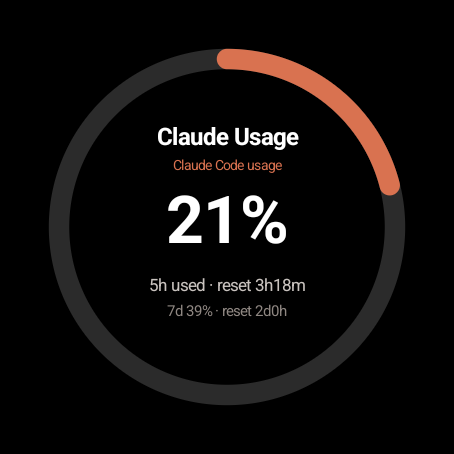
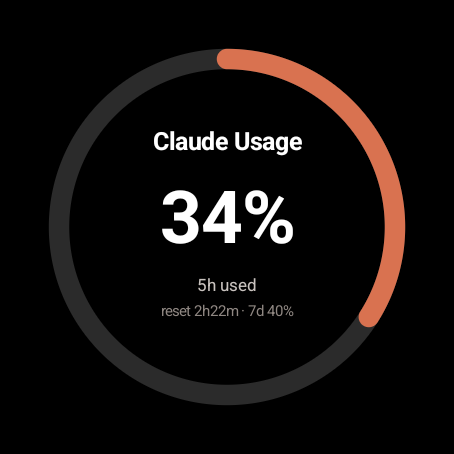
Polish usage widgets and Wear rings

Changed region(s): [[0.3392, 0.2775, 0.6784, 0.5551], [0.3084, 0.6167, 0.6784, 0.7093], [0.7709, 0.4009, 0.8943, 0.7401]]

diff --git a/wear/src/main/java/com/usagecompanion/claude/wear/UsageTileService.kt b/wear/src/main/java/com/usagecompanion/claude/wear/UsageTileService.kt
@@ -48,38 +48,67 @@ class UsageTileService : TileService() {
     }
 
     private fun tileContent(snapshot: WearSnapshot): LayoutElementBuilders.LayoutElement {
+        val accent = colorFor(snapshot)
+        val progress = if (snapshot.hasUsage) snapshot.fiveHourPercent else 0
         val title = if (snapshot.hasUsage) "Claude Usage" else "Set up"
-        val plan = if (snapshot.hasUsage) snapshot.planLabel else "Open phone app"
         val primary = if (snapshot.hasUsage) "${snapshot.fiveHourPercent}%" else "--"
-        val secondary = if (snapshot.hasUsage) {
-            "5h used · 7d ${snapshot.sevenDayPercent}%"
+        val label = if (snapshot.hasUsage) {
+            "5h used"
+        } else {
+            "Open phone app"
+        }
+        val reset = if (snapshot.hasUsage) {
+            "reset ${snapshot.fiveHourResetLabel} · 7d ${snapshot.sevenDayPercent}%"
         } else {
             "OAuth token required"
         }
-        val reset = if (snapshot.hasUsage) {
-            "reset ${snapshot.fiveHourResetLabel}"
-        } else {
-            ""
-        }
 
-        return LayoutElementBuilders.Column.Builder()
+        val content = LayoutElementBuilders.Column.Builder()
+            .setWidth(DimensionBuilders.expand())
+            .setHeight(DimensionBuilders.wrap())
+            .setHorizontalAlignment(LayoutElementBuilders.HORIZONTAL_ALIGN_CENTER)
+            .addContent(text(title, 13f, COLOR_ON_SURFACE, LayoutElementBuilders.FONT_WEIGHT_MEDIUM))
+            .addContent(text(primary, 38f, COLOR_ON_SURFACE, LayoutElementBuilders.FONT_WEIGHT_BOLD))
+            .addContent(text(label, 11f, COLOR_ON_SURFACE_VARIANT, LayoutElementBuilders.FONT_WEIGHT_NORMAL))
+            .addContent(text(reset, 10f, COLOR_ON_SURFACE_VARIANT, LayoutElementBuilders.FONT_WEIGHT_NORMAL))
+            .build()
+
+        return LayoutElementBuilders.Box.Builder()
             .setWidth(DimensionBuilders.expand())
             .setHeight(DimensionBuilders.expand())
             .setHorizontalAlignment(LayoutElementBuilders.HORIZONTAL_ALIGN_CENTER)
-            .setModifiers(background(COLOR_BACKGROUND))
-            .addContent(text(title, 13f, COLOR_ON_SURFACE, LayoutElementBuilders.FONT_WEIGHT_MEDIUM))
-            .addContent(text(plan, 10f, COLOR_PRIMARY, LayoutElementBuilders.FONT_WEIGHT_NORMAL))
-            .addContent(text(primary, 40f, colorFor(snapshot), LayoutElementBuilders.FONT_WEIGHT_BOLD))
-            .addContent(text(secondary, 11f, COLOR_ON_SURFACE_VARIANT, LayoutElementBuilders.FONT_WEIGHT_NORMAL))
-            .addContent(text(reset, 10f, COLOR_ON_SURFACE_VARIANT, LayoutElementBuilders.FONT_WEIGHT_NORMAL))
+            .setVerticalAlignment(LayoutElementBuilders.VERTICAL_ALIGN_CENTER)
+            .setModifiers(tileModifiers())
+            .addContent(progressArc(COLOR_TRACK, 100))
+            .addContent(progressArc(accent, progress))
+            .addContent(content)
             .build()
     }
 
-    private fun background(color: Int): ModifiersBuilders.Modifiers {
+    private fun progressArc(color: Int, percent: Int): LayoutElementBuilders.Arc {
+        return LayoutElementBuilders.Arc.Builder()
+            .setAnchorAngle(DimensionBuilders.degrees(PROGRESS_START_ANGLE))
+            .setAnchorType(LayoutElementBuilders.ARC_ANCHOR_START)
+            .addContent(
+                LayoutElementBuilders.ArcLine.Builder()
+                    .setLength(DimensionBuilders.degrees(PROGRESS_SWEEP * percent.coerceIn(0, 100) / 100f))
+                    .setThickness(DimensionBuilders.dp(8f))
+                    .setColor(ColorBuilders.argb(color))
+                    .build(),
+            )
+            .build()
+    }
+
+    private fun tileModifiers(): ModifiersBuilders.Modifiers {
         return ModifiersBuilders.Modifiers.Builder()
             .setBackground(
                 ModifiersBuilders.Background.Builder()
-                    .setColor(ColorBuilders.argb(color))
+                    .setColor(ColorBuilders.argb(COLOR_BACKGROUND))
+                    .build(),
+            )
+            .setPadding(
+                ModifiersBuilders.Padding.Builder()
+                    .setAll(DimensionBuilders.dp(22f))
                     .build(),
             )
             .build()
@@ -116,14 +145,17 @@ class UsageTileService : TileService() {
     }
 
     companion object {
-        private const val RESOURCES_VERSION = "1"
+        private const val RESOURCES_VERSION = "3"
         private const val COLOR_BACKGROUND = 0xFF000000.toInt()
         private const val COLOR_PRIMARY = 0xFFD97250.toInt()
         private const val COLOR_TERTIARY = 0xFFFBBC04.toInt()
         private const val COLOR_DEEP_ORANGE = 0xFFF97316.toInt()
         private const val COLOR_ERROR = 0xFFEF4444.toInt()
         private const val COLOR_OUTLINE = 0xFF9CA3AF.toInt()
+        private const val COLOR_TRACK = 0xFF2B2B2B.toInt()
         private const val COLOR_ON_SURFACE = 0xFFFFFFFF.toInt()
         private const val COLOR_ON_SURFACE_VARIANT = 0xFFC9C3BF.toInt()
+        private const val PROGRESS_START_ANGLE = 0f
+        private const val PROGRESS_SWEEP = 360f
     }
 }

diff --git a/wear/src/main/java/com/usagecompanion/claude/wear/WearMainActivity.kt b/wear/src/main/java/com/usagecompanion/claude/wear/WearMainActivity.kt
@@ -132,28 +132,28 @@ class WearMainActivity : Activity() {
             drawRing(canvas, outer, stroke, accent, snapshot.fiveHourPercent)
 
             textPaint.typeface = android.graphics.Typeface.DEFAULT_BOLD
-            textPaint.textSize = minSize * 0.052f
+            textPaint.textSize = minSize * 0.054f
             textPaint.color = Color.WHITE
-            canvas.drawText("Claude Usage", centerX, centerY - minSize * 0.18f, textPaint)
-
-            textPaint.typeface = android.graphics.Typeface.DEFAULT
-            textPaint.textSize = minSize * 0.03f
-            textPaint.color = Color.parseColor(CLAUDE_ORANGE)
-            canvas.drawText(snapshot.planLabel, centerX, centerY - minSize * 0.125f, textPaint)
+            canvas.drawText("Claude Usage", centerX, centerY - minSize * 0.17f, textPaint)
 
             textPaint.typeface = android.graphics.Typeface.DEFAULT_BOLD
-            textPaint.textSize = minSize * 0.145f
+            textPaint.textSize = minSize * 0.16f
             textPaint.color = Color.WHITE
             canvas.drawText("${snapshot.fiveHourPercent}%", centerX, centerY + minSize * 0.035f, textPaint)
 
             textPaint.typeface = android.graphics.Typeface.DEFAULT
-            textPaint.textSize = minSize * 0.037f
+            textPaint.textSize = minSize * 0.038f
             textPaint.color = Color.parseColor(COLOR_TEXT_DIM)
-            canvas.drawText("5h used · reset ${snapshot.fiveHourResetLabel}", centerX, centerY + minSize * 0.14f, textPaint)
+            canvas.drawText("5h used", centerX, centerY + minSize * 0.14f, textPaint)
 
             textPaint.textSize = minSize * 0.032f
             textPaint.color = Color.parseColor(COLOR_TEXT_FAINT)
-            canvas.drawText("7d ${snapshot.sevenDayPercent}% · reset ${snapshot.sevenDayResetLabel}", centerX, centerY + minSize * 0.195f, textPaint)
+            canvas.drawText(
+                "reset ${snapshot.fiveHourResetLabel} · 7d ${snapshot.sevenDayPercent}%",
+                centerX,
+                centerY + minSize * 0.195f,
+                textPaint,
+            )
         }
 
         private fun drawRing(canvas: Canvas, rect: RectF, stroke: Float, color: String, percent: Int) {

diff --git a/app/src/main/java/com/usagecompanion/claude/widget/UsageWidgetProvider.kt b/app/src/main/java/com/usagecompanion/claude/widget/UsageWidgetProvider.kt
@@ -30,14 +30,25 @@ class UsageWidgetProvider : AppWidgetProvider() {
         private fun updateWidget(context: Context, manager: AppWidgetManager, appWidgetId: Int) {
             val snapshot = UsageRepository(context).currentSnapshot()
             val views = RemoteViews(context.packageName, R.layout.usage_widget).apply {
-                setTextViewText(
-                    R.id.widget_percent,
-                    if (snapshot.hasUsage) "5h ${snapshot.fiveHourPercent}%" else "--",
-                )
-                setTextViewText(
-                    R.id.widget_detail,
-                    if (snapshot.hasUsage) "used / 7d ${snapshot.sevenDayPercent}%" else "Set up on phone",
-                )
+                val fiveHourPercent = if (snapshot.hasUsage) "${snapshot.fiveHourPercent}%" else "--"
+                val sevenDayPercent = if (snapshot.hasUsage) "${snapshot.sevenDayPercent}%" else "--"
+                val fiveHourReset = if (snapshot.hasUsage) {
+                    "Resets in ${snapshot.fiveHourResetLabel}"
+                } else {
+                    "Set up on phone"
+                }
+                val sevenDayReset = if (snapshot.hasUsage) {
+                    "Resets in ${snapshot.sevenDayResetLabel}"
+                } else {
+                    "Set up on phone"
+                }
+
+                setTextViewText(R.id.widget_five_hour_percent, fiveHourPercent)
+                setTextViewText(R.id.widget_seven_day_percent, sevenDayPercent)
+                setTextViewText(R.id.widget_five_hour_reset, fiveHourReset)
+                setTextViewText(R.id.widget_seven_day_reset, sevenDayReset)
+                setProgressBar(R.id.widget_five_hour_progress, 100, snapshot.fiveHourPercent.coerceIn(0, 100), false)
+                setProgressBar(R.id.widget_seven_day_progress, 100, snapshot.sevenDayPercent.coerceIn(0, 100), false)
                 setOnClickPendingIntent(R.id.widget_root, launchIntent(context))
             }
             manager.updateAppWidget(appWidgetId, views)

diff --git a/README.md b/README.md
@@ -6,9 +6,9 @@ The phone stores the OAuth token locally, refreshes Claude usage directly, and s
 
 ## Screenshots
 
-| Phone app | Wear app |
-| --- | --- |
-| ![Phone usage dashboard](docs/images/phone-usage.png) | ![Wear usage ring](docs/images/wear-ring.png) |
+| Phone app | Wear app | Wear Tile |
+| --- | --- | --- |
+| ![Phone usage dashboard](docs/images/phone-usage.png) | ![Wear usage ring](docs/images/wear-ring.png) | ![Wear usage tile](docs/images/wear-tile.png) |
 
 ## Features
 
